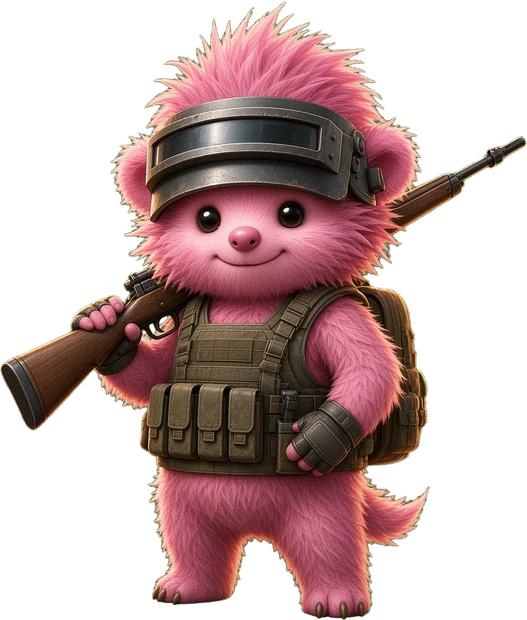
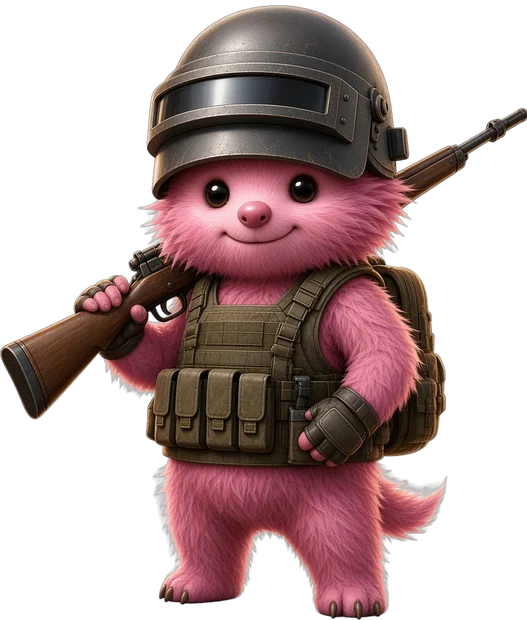
Mascot v2: full helmet

diff --git a/index.html b/index.html
@@ -24,7 +24,7 @@
   <link rel="preload" as="image" href="assets/hero-bg-3840.webp" media="(min-width: 1921px), (min-width: 901px) and (min-resolution: 1.5dppx)">
   <link rel="preload" as="image" href="assets/hero-bg-1920.webp" media="(min-width: 901px) and (max-width: 1920px) and (max-resolution: 1.49dppx)">
   <link rel="preload" as="image" href="assets/hero-bg-1280.webp" media="(max-width: 900px)">
-  <link rel="stylesheet" href="css/style.css?v=127">
+  <link rel="stylesheet" href="css/style.css?v=128">
 </head>
 <body class="home" data-page="index">
   <header class="topbar">
@@ -47,8 +47,8 @@
         <div class="mascot-wrap">
           <div class="mascot-shadow"></div>
           <picture>
-            <source media="(max-width: 760px)" srcset="assets/mascot-sm.webp">
-            <img class="mascot" src="assets/mascot.webp" alt="" decoding="async">
+            <source media="(max-width: 760px)" srcset="assets/mascot-sm.webp?v=2">
+            <img class="mascot" src="assets/mascot.webp?v=2" alt="" decoding="async">
           </picture>
           <div class="mascot-grade"></div>
         </div>
@@ -104,6 +104,6 @@
   </footer>
   <div id="toast" class="toast" role="status" aria-live="polite"></div>
   <script src="js/hero.js" defer></script>
-  <script type="module" src="js/main.js?v=27"></script>
+  <script type="module" src="js/main.js?v=28"></script>
 </body>
 </html>

diff --git a/moments.html b/moments.html
@@ -21,7 +21,7 @@
   <link rel="preconnect" href="https://fonts.googleapis.com">
   <link rel="preconnect" href="https://fonts.gstatic.com" crossorigin>
   <link href="https://fonts.googleapis.com/css2?family=Black+Ops+One&family=Rubik:wght@400;500;700;900&display=swap" rel="stylesheet">
-  <link rel="stylesheet" href="css/style.css?v=127">
+  <link rel="stylesheet" href="css/style.css?v=128">
 </head>
 <body class="subpage" data-page="moments">
   <header class="topbar">
@@ -41,6 +41,6 @@
     <a href="admin.html" class="footer-admin">Вход для админов</a>
   </footer>
   <div id="toast" class="toast" role="status" aria-live="polite"></div>
-  <script type="module" src="js/main.js?v=27"></script>
+  <script type="module" src="js/main.js?v=28"></script>
 </body>
 </html>

diff --git a/roster.html b/roster.html
@@ -21,7 +21,7 @@
   <link rel="preconnect" href="https://fonts.googleapis.com">
   <link rel="preconnect" href="https://fonts.gstatic.com" crossorigin>
   <link href="https://fonts.googleapis.com/css2?family=Black+Ops+One&family=Rubik:wght@400;500;700;900&display=swap" rel="stylesheet">
-  <link rel="stylesheet" href="css/style.css?v=127">
+  <link rel="stylesheet" href="css/style.css?v=128">
 </head>
 <body class="subpage" data-page="roster">
   <header class="topbar">
@@ -51,6 +51,6 @@
     <a href="admin.html" class="footer-admin">Вход для админов</a>
   </footer>
   <div id="toast" class="toast" role="status" aria-live="polite"></div>
-  <script type="module" src="js/main.js?v=27"></script>
+  <script type="module" src="js/main.js?v=28"></script>
 </body>
 </html>

diff --git a/about.html b/about.html
@@ -21,7 +21,7 @@
   <link rel="preconnect" href="https://fonts.googleapis.com">
   <link rel="preconnect" href="https://fonts.gstatic.com" crossorigin>
   <link href="https://fonts.googleapis.com/css2?family=Black+Ops+One&family=Rubik:wght@400;500;700;900&display=swap" rel="stylesheet">
-  <link rel="stylesheet" href="css/style.css?v=127">
+  <link rel="stylesheet" href="css/style.css?v=128">
 </head>
 <body class="subpage" data-page="about">
   <header class="topbar">
@@ -91,6 +91,6 @@
     <a href="admin.html" class="footer-admin">Вход для админов</a>
   </footer>
   <div id="toast" class="toast" role="status" aria-live="polite"></div>
-  <script type="module" src="js/main.js?v=27"></script>
+  <script type="module" src="js/main.js?v=28"></script>
 </body>
 </html>

diff --git a/hall.html b/hall.html
@@ -21,7 +21,7 @@
   <link rel="preconnect" href="https://fonts.googleapis.com">
   <link rel="preconnect" href="https://fonts.gstatic.com" crossorigin>
   <link href="https://fonts.googleapis.com/css2?family=Black+Ops+One&family=Rubik:wght@400;500;700;900&display=swap" rel="stylesheet">
-  <link rel="stylesheet" href="css/style.css?v=127">
+  <link rel="stylesheet" href="css/style.css?v=128">
 </head>
 <body class="subpage" data-page="hall">
   <header class="topbar">
@@ -41,6 +41,6 @@
     <a href="admin.html" class="footer-admin">Вход для админов</a>
   </footer>
   <div id="toast" class="toast" role="status" aria-live="polite"></div>
-  <script type="module" src="js/main.js?v=27"></script>
+  <script type="module" src="js/main.js?v=28"></script>
 </body>
 </html>

diff --git a/news.html b/news.html
@@ -21,7 +21,7 @@
   <link rel="preconnect" href="https://fonts.googleapis.com">
   <link rel="preconnect" href="https://fonts.gstatic.com" crossorigin>
   <link href="https://fonts.googleapis.com/css2?family=Black+Ops+One&family=Rubik:wght@400;500;700;900&display=swap" rel="stylesheet">
-  <link rel="stylesheet" href="css/style.css?v=127">
+  <link rel="stylesheet" href="css/style.css?v=128">
 </head>
 <body class="subpage" data-page="news">
   <header class="topbar">
@@ -42,6 +42,6 @@
     <a href="admin.html" class="footer-admin">Вход для админов</a>
   </footer>
   <div id="toast" class="toast" role="status" aria-live="polite"></div>
-  <script type="module" src="js/main.js?v=27"></script>
+  <script type="module" src="js/main.js?v=28"></script>
 </body>
 </html>

diff --git a/css/style.css b/css/style.css
@@ -68,7 +68,7 @@ img { max-width: 100%; }
   filter: brightness(.7) contrast(1.1) saturate(.72)
           drop-shadow(-2px -1px 1px rgba(255,150,70,.55)) drop-shadow(-10px 0 22px rgba(255,110,40,.22)); }
 .mascot-grade { position: absolute; inset: 0;
-  -webkit-mask: url(../assets/mascot.webp) bottom / contain no-repeat; mask: url(../assets/mascot.webp) bottom / contain no-repeat;
+  -webkit-mask: url(../assets/mascot.webp?v=2) bottom / contain no-repeat; mask: url(../assets/mascot.webp?v=2) bottom / contain no-repeat;
   background:
     radial-gradient(ellipse 80% 50% at 15% 85%, rgba(255,120,40,.55), transparent 60%),
     linear-gradient(200deg, rgba(20,34,48,.55) 0%, rgba(20,30,40,.1) 45%, rgba(255,110,40,.25) 100%);

diff --git a/tools/fragments/hero.html b/tools/fragments/hero.html
@@ -13,8 +13,8 @@
         <div class="mascot-wrap">
           <div class="mascot-shadow"></div>
           <picture>
-            <source media="(max-width: 760px)" srcset="assets/mascot-sm.webp">
-            <img class="mascot" src="assets/mascot.webp" alt="" decoding="async">
+            <source media="(max-width: 760px)" srcset="assets/mascot-sm.webp?v=2">
+            <img class="mascot" src="assets/mascot.webp?v=2" alt="" decoding="async">
           </picture>
           <div class="mascot-grade"></div>
         </div>

diff --git a/tools/build_pages.py b/tools/build_pages.py
@@ -6,7 +6,7 @@ import pathlib, html
 ROOT = pathlib.Path(__file__).resolve().parent.parent
 FR = ROOT / 'tools' / 'fragments'
 BASE = 'https://chundriki.top/'
-V = '27'
+V = '28'
 NAV = [('index.html', 'Главная'), ('news.html', 'Новости'), ('roster.html', 'Состав'),
        ('moments.html', 'Моменты'), ('hall.html', 'Зал славы'), ('about.html', 'О клане')]
 OG_IMG = BASE + 'assets/hero-bg-1280.webp'
